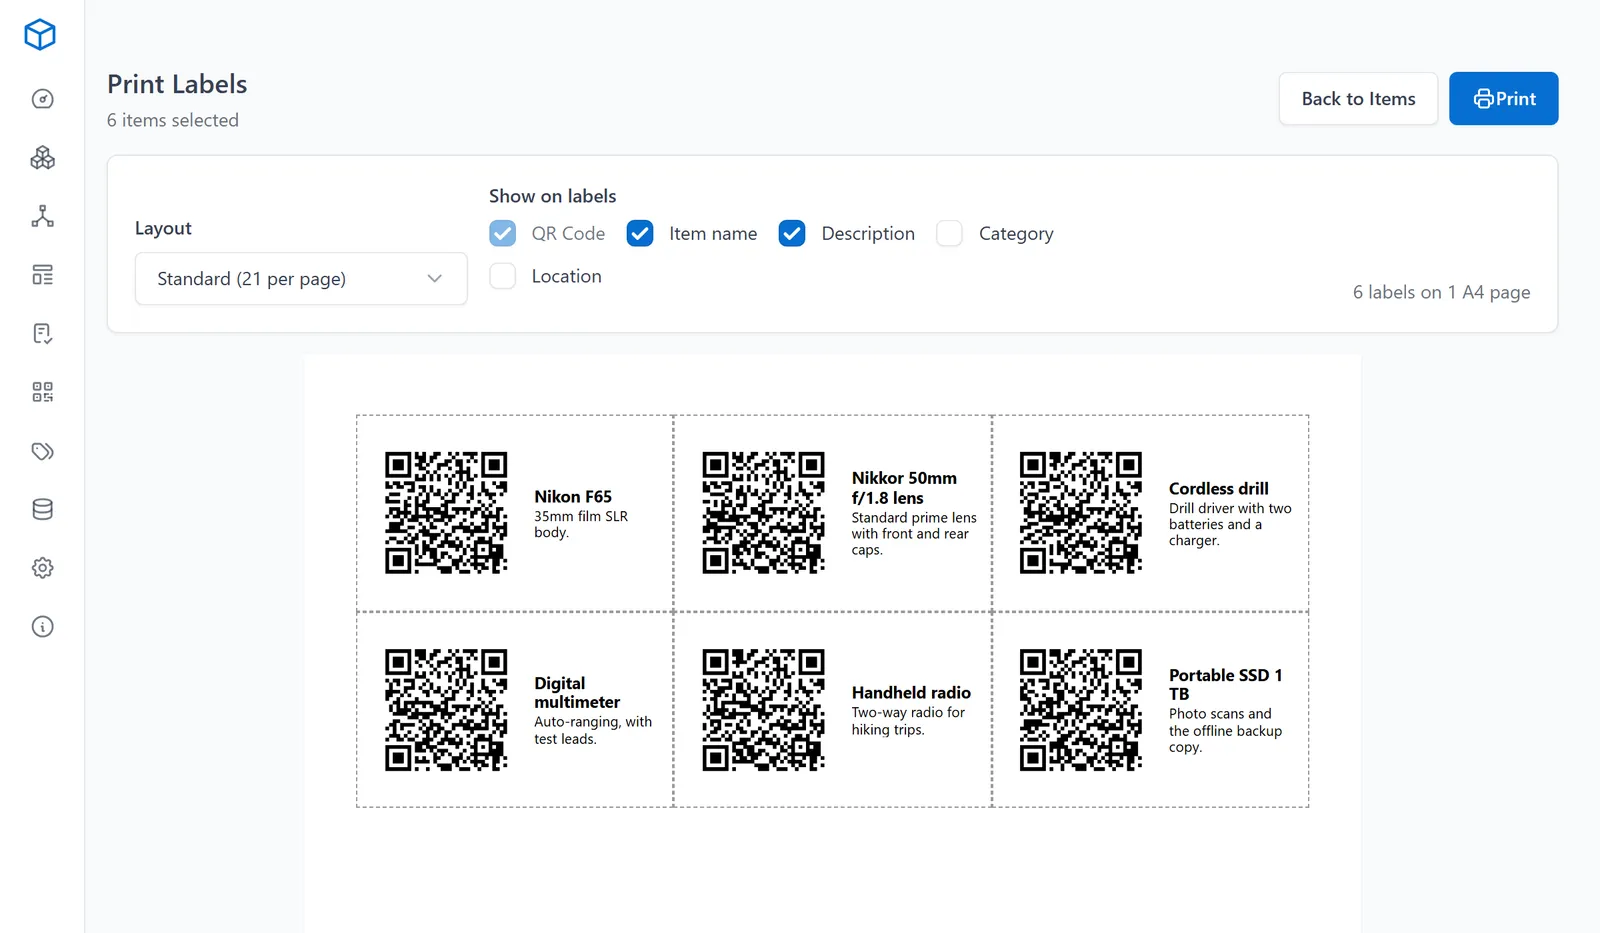
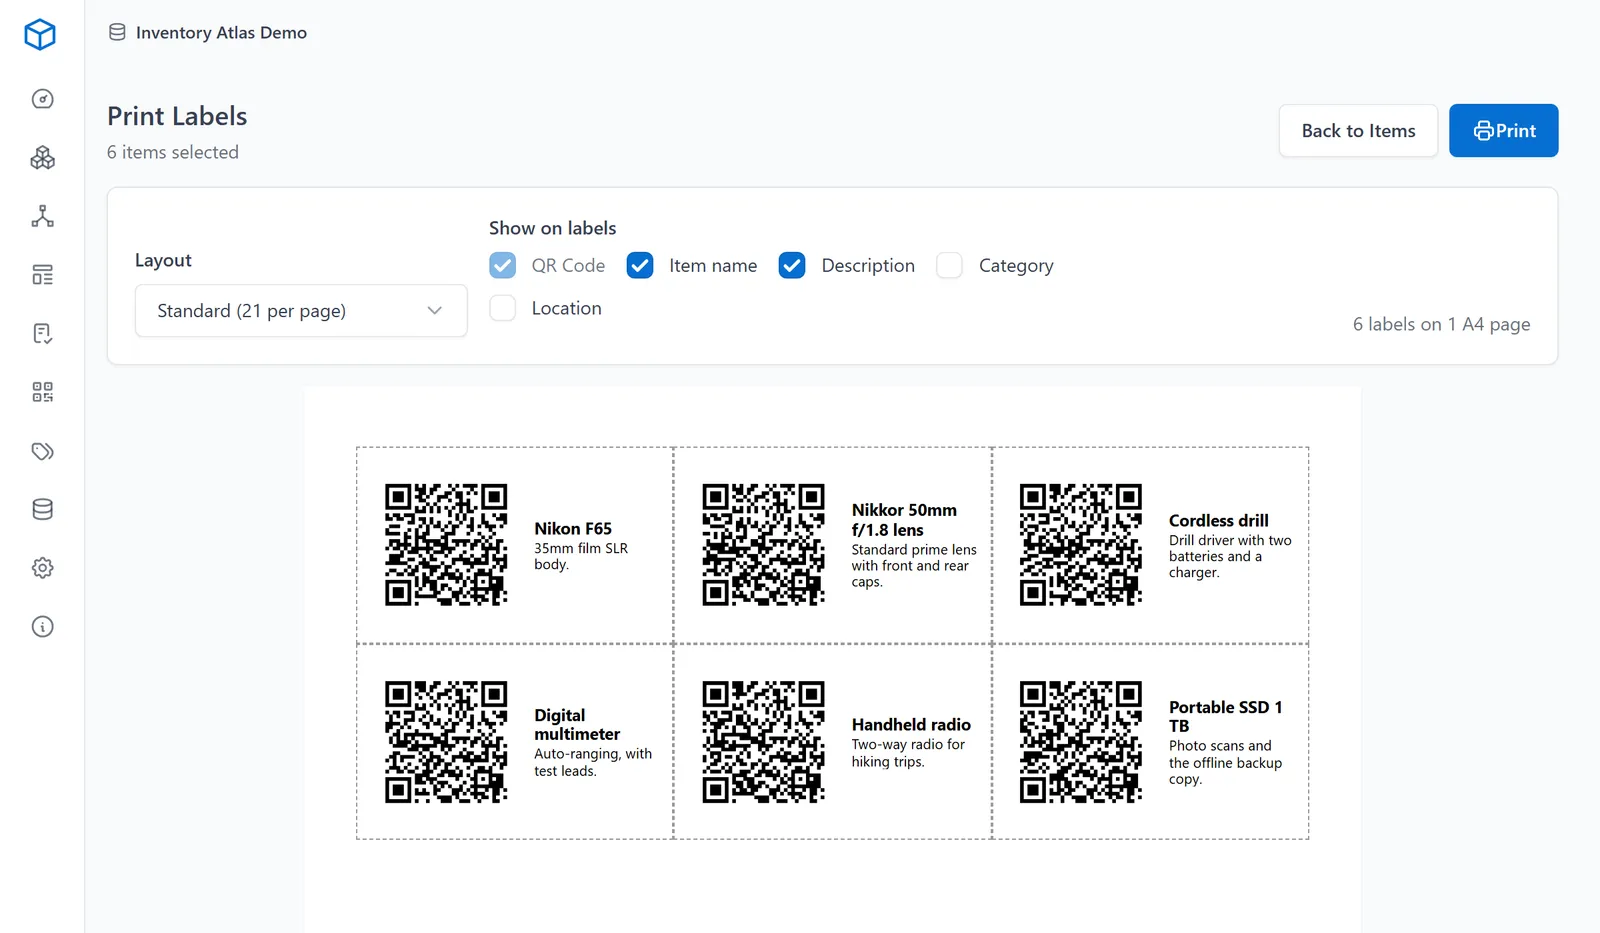
Recapture the landing screenshots for the joint 0.66.0 release (#41, #42)

diff --git a/docs/changes/2026-10-18-specific-location.md b/docs/changes/2026-10-18-specific-location.md
@@ -64,3 +64,16 @@ See `docs/features/specific-location.md`.
   screenshots in both languages from the demo, which now shows specific locations;
   `test/landing.test.js` (apart from the two Windows guide failures above) and
   `test/e2e/landing.spec.js` with `test/e2e/guide.spec.js` (47 passed) accept them.
+
+## Joint 0.66.0 release with #41
+
+After #41 (the active database indicator) reached `master`, it was merged into this branch, the
+version and the release-history entry were combined into one 0.66.0 release, and the landing
+screenshots were recaptured with `npm run landing:screenshots` so they show both the indicator and
+the Specific location.
+
+- `npm run lint` — passed.
+- `npm test` — 399 passed, 2 failed, 1 skipped; the two failures are the same Windows guide tests
+  in `test/landing.test.js` described above.
+- `npm run build` — passed.
+- `APP_VERSION=0.66.0 npm run test:e2e` — 264 of 264 passed, including the landing and guide build.
